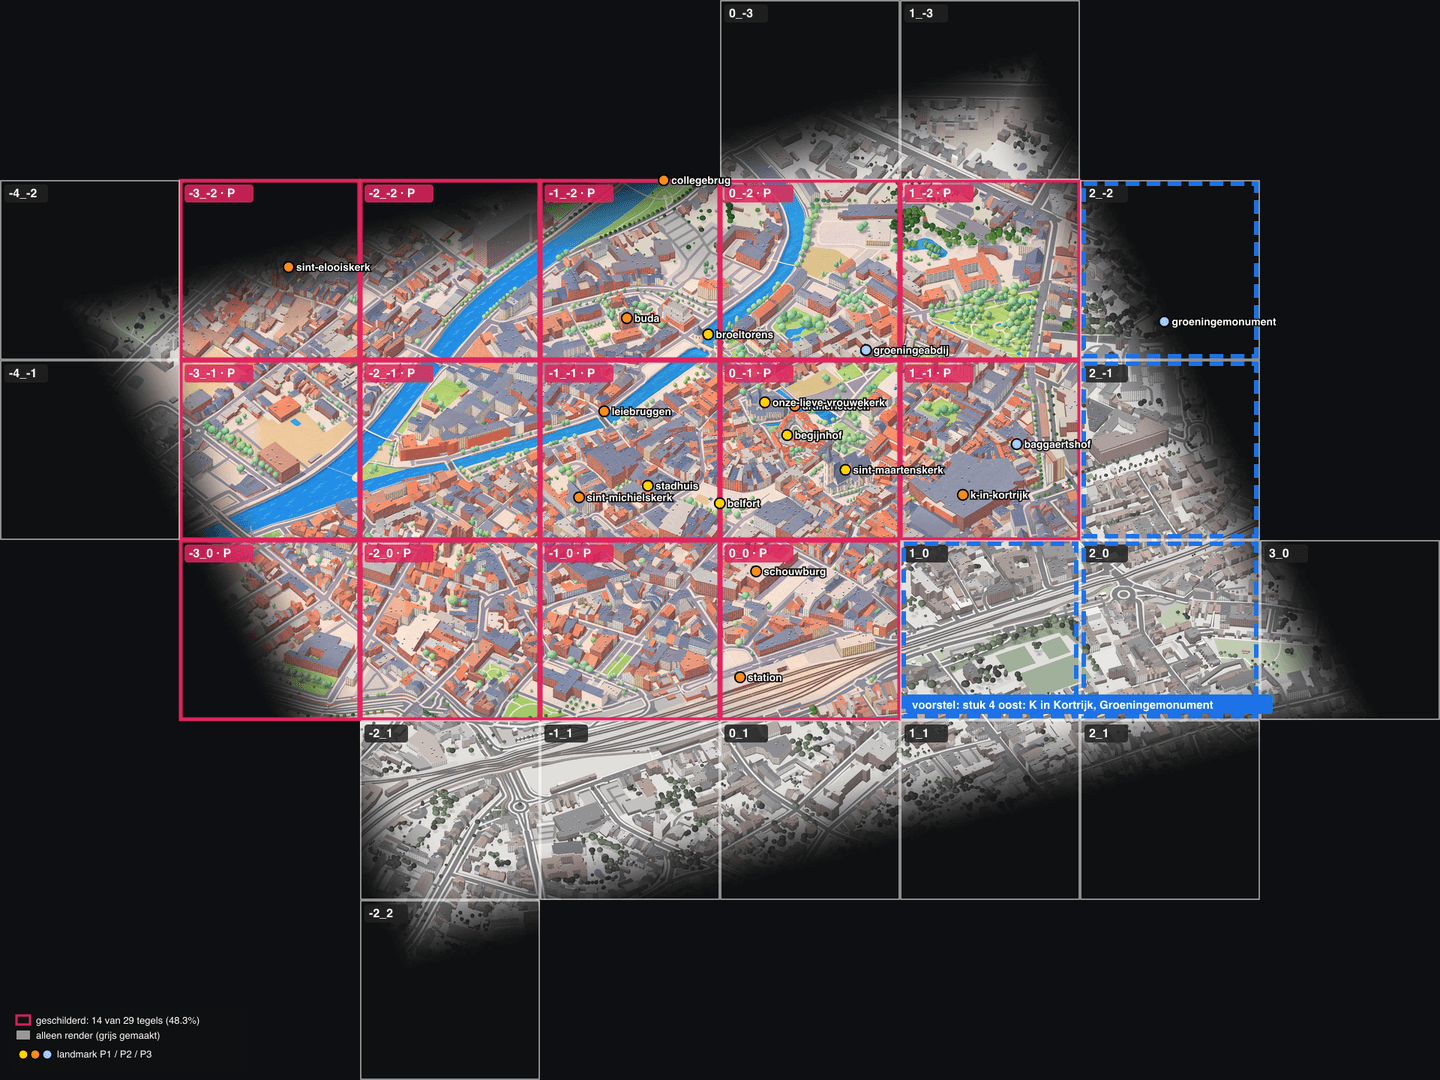
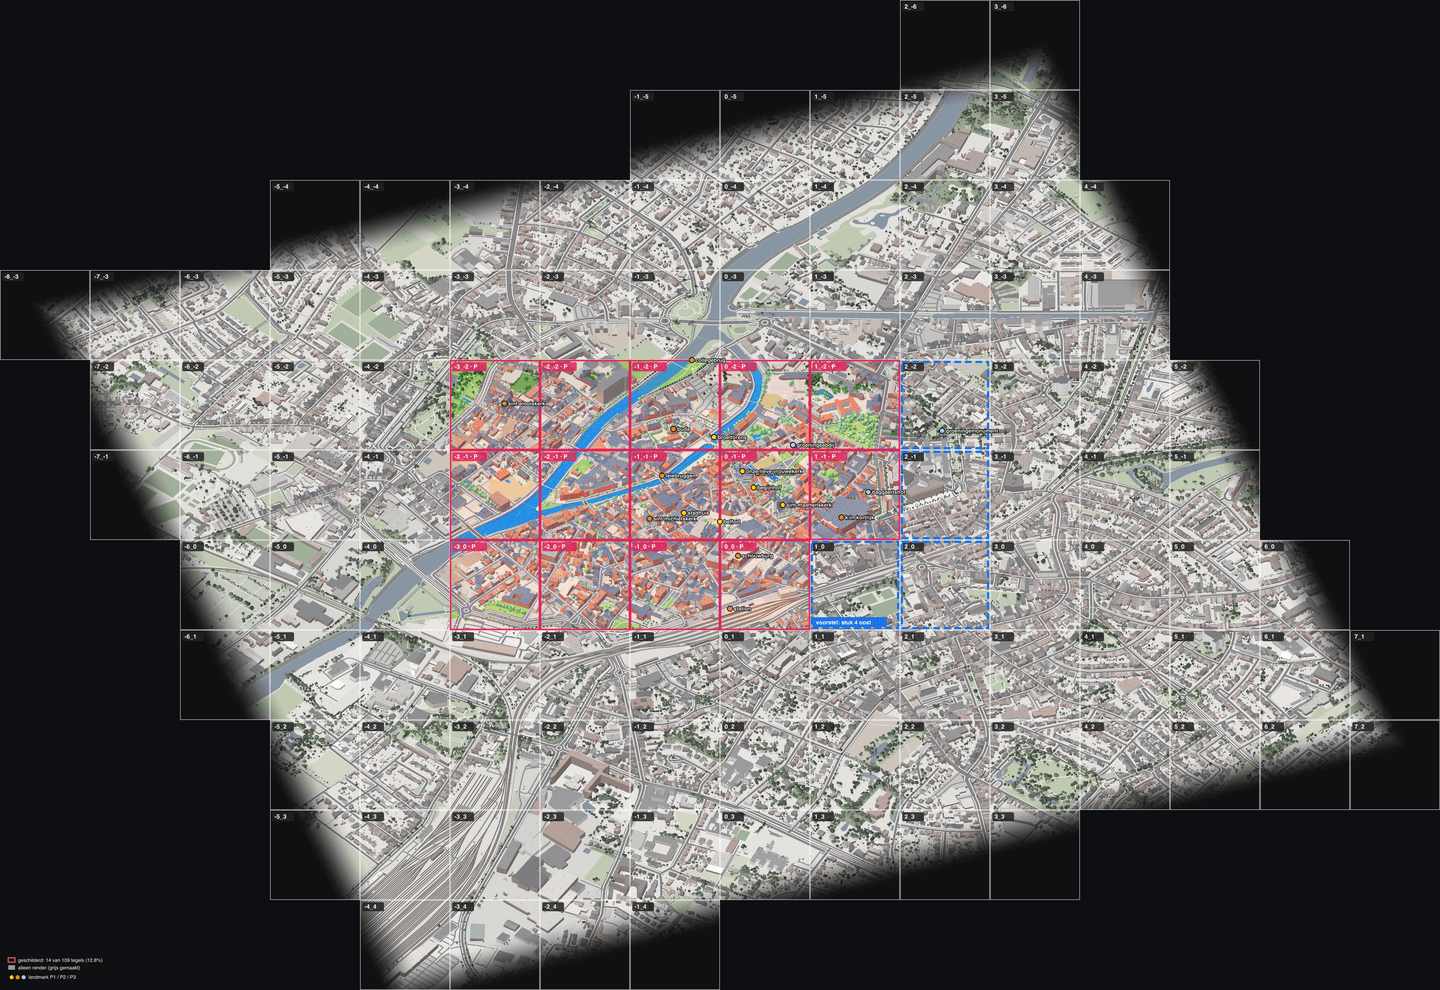
Grow the map from 800 m to 1600 m around the Belfort (109 tiles)
Tom chose option C for the map edge: a bigger part of the city. The
kortrijk-binnenstad bbox now covers the whole ring, the station quarter,
Overleie, Kortrijk Weide and Sint-Jan. Tile coordinates are unchanged,
so the 14 painted tiles stay as they are.

- areas.ts and building_colours.py: the 1600 m bbox.
- export.ts: source stamps include a tag of the area outline, so tiles
  whose baked edge fade changed are rebuilt (they kept the old dark fade).
- Docs: paint status grid and numbers (14 of 109 painted, 12.8%), the
  area-growth procedure in CLAUDE.md, README/AGENTS counts.

diff --git a/pipeline/src/export.ts b/pipeline/src/export.ts
@@ -52,6 +52,8 @@ const EDGE0 = 220, EDGE1 = EDGE0 + 520;
 let outlines: Array<Array<[number, number]>> = [];
 /** web/src/pages/index.astro #map background (#0e0f12): the edge fades into it */
 const BG = [14, 15, 18];
+/** Short tag of the outline in every source stamp: when an area grows, tiles that used to fade are rebuilt. */
+const outlineTag = () => "@" + createHash("sha1").update(JSON.stringify(outlines.map((o) => o.map(([x, y]) => [Math.round(x), Math.round(y)])))).digest("hex").slice(0, 8);
 const edgeDistance = (x: number, y: number) => Math.max(0, ...outlines.map((o) => insideDistance([x, y], o)));
 
 /** Native web tile at global art px (x0, y0): fade alpha near the map edge (null = fully inside). */
@@ -195,7 +197,7 @@ async function exportLayer(layer: string, sources: Map<Key, string>) {
   for (const [k, file] of sources) {
     const [tx, ty] = parse(k);
     const painted = layer === "map" && /\/paint(-hd)?\//.test(file);
-    const m = statSync(file).mtimeMs, stamp = `${file}@${m}@edge${EDGE0}-${EDGE1}d${painted ? `@${DECK_STYLE}` : ""}@${FORMAT}${QUALITY}@hd${HD}`;
+    const m = statSync(file).mtimeMs, stamp = `${file}@${m}@edge${EDGE0}-${EDGE1}${outlineTag()}d${painted ? `@${DECK_STYLE}` : ""}@${FORMAT}${QUALITY}@hd${HD}`;
     const todo: Array<[number, number]> = [];
     for (let j = 0; j < SPLIT; j++)
       for (let i = 0; i < SPLIT; i++) {

diff --git a/pipeline/src/areas.ts b/pipeline/src/areas.ts
@@ -14,14 +14,15 @@ export interface Area {
 
 export const AREAS: Record<string, Area> = {
   /**
-   * ~800 m around the Belfort: Grote Markt, Sint-Maartenskerk, Onze-Lieve-Vrouwekerk,
-   * Begijnhof, Broeltorens and the Leie quays.
-   * Belfort 50.8275738, 3.2656171; 800 m ≈ 0.007186° lat, 0.011377° lon.
+   * ~1600 m around the Belfort (3.2 × 3.2 km, 109 tiles): the whole ring with the binnenstad,
+   * station quarter, Overleie, Kortrijk Weide and Sint-Jan. Until 2026-11-11 it was 800 m
+   * (29 tiles: 50.820387, 3.254240, 50.834760, 3.276994); tile coordinates did not change.
+   * Belfort 50.8275738, 3.2656171; 1600 m ≈ 0.014373° lat, 0.022754° lon.
    */
   "kortrijk-binnenstad": {
     title: "Kortrijk binnenstad",
     region: "kortrijk",
-    bbox: [50.820387, 3.254240, 50.834760, 3.276994],
+    bbox: [50.813201, 3.242863, 50.841947, 3.288372],
   },
   /** Whole municipality (OSM relation 961284). Defined so the region scales; not fetched by default. */
   kortrijk: {

diff --git a/pipeline/tools/building_colours.py b/pipeline/tools/building_colours.py
@@ -42,7 +42,7 @@ import pyproj
 Image.MAX_IMAGE_PIXELS = None
 ROOT = os.path.abspath(os.path.join(os.path.dirname(__file__), "..", ".."))
 UA = {"User-Agent": "simkortrijk/0.1 (open-data isometric map of Kortrijk)"}
-BBOX = {"kortrijk-binnenstad": (50.820387, 3.254240, 50.834760, 3.276994)}
+BBOX = {"kortrijk-binnenstad": (50.813201, 3.242863, 50.841947, 3.288372)}  # keep in step with pipeline/src/areas.ts
 ORTHO_LAYER, RES = "OMWRGB25VL", 0.25
 
 ap = argparse.ArgumentParser()

diff --git a/docs/PAINT_STATUS.md b/docs/PAINT_STATUS.md
@@ -9,7 +9,7 @@ What is painted on the live map and what is not. **Update this file after every 
 
 Regenerate `docs/paint-status.png` when the grid changes.
 
-Last updated: **2026-11-11**, after the HD publish of about 17:32 CET (1 277 files to R2 bucket `simkortrijk`, region `kortrijk`). The 16:23 publish before it was the same map at z8.
+Last updated: **2026-11-11**, after the 1600 m map publish of about 21:10 CET (4 697 files to R2 bucket `simkortrijk`, region `kortrijk`, every tile re-exported because the edge fade moved; Worker redeployed). Before that: piece 3 at 19:05, the HD publish at 17:32.
 
 ![Paint status: painted tiles outlined in red, render-only tiles greyed, landmarks by priority, the proposed next piece dashed blue](paint-status.png)
 
@@ -30,10 +30,10 @@ The map is painted in **pieces** (`stukken`): a few neighbouring tiles, or one l
 | 1 | Grote Markt | repaint the Belfort and stadhuis windows in `-1_-1` / `0_-1`; paint `-1_0` `0_0` | Belfort, historisch stadhuis (P1, render fix first); Stadsschouwburg, station (P2) | **done**, live (published 18:27 CET, 214 files): render fixed (`belfort/massing.json`, `stadhuis/massing.json`), windows `-1_-1` and `0_-1` repainted, `-1_0` and `0_0` painted, tiles `-1_-1` `0_-1` `-1_0` `0_0` reassembled | 4 / ~$0.36 | 2026-11-11 |
 | 2 | OLV-kerk, Begijnhof, east side | repaint `0_-1` after the OLV and Begijnhof fixes; paint `1_-2` `1_-1` | OLV-kerk + Gravenkapel, Begijnhof (P1, render fix first); K in Kortrijk + Sint-Janstoren (P2); Baggaertshof (P3) | **done**, live (published 18:46 CET, 236 files): OLV-kerk (`massing.json`) and Begijnhof (`colours.json`) fixed; windows `0_-2` `0_-1` repainted, `1_-2` `1_-1` painted, tiles `0_-2` `0_-1` `0_0` `1_-2` `1_-1` reassembled. K in Kortrijk, Sint-Janstoren and Baggaertshof painted from the uncorrected render | 6 / ~$0.54 (2 repaints after the OLV came out as a palace, see below) | 2026-11-11 |
 | 3 | West: Sint-Elooiskerk, Leie, Noordbrug | paint `-3_-2` `-3_-1` `-3_0` `-2_0` (scope widened: the Noordbrug pylon stands in `-3_0`, and `-2_0` closes the gap); repaint `-2_-2` `-2_-1` (their left edge was a feather) | Sint-Elooiskerk (`massing.json`), Noordbrug (render edit `leiebruggen/edit_noordbrug.ts`: pylon and stays drawn before painting, restored after) | **done**, live (published 19:05 CET, 455 files) | 9 / ~$0.81 | 2026-11-11 |
-| – | Map edge: no black | cream paper instead of the dark page background (see "Next up") | – | **next**, Tom asked for it before piece 4 | 0 paint calls | |
-| 4 | East: K in Kortrijk, Baggaertshof, Groeningemonument | fix K in Kortrijk + Sint-Janstoren and Baggaertshof, repaint `1_-1`; paint `1_0` `2_-2` `2_-1` `2_0` (and repaint the edge windows that feather into them) | K in Kortrijk + Sint-Janstoren (P2), Baggaertshof (P3), Groeningemonument (P3) | **agreed as the next piece**, after the map edge; briefing in "Next up" | ~9 / ~$0.80 (estimate) | |
+| – | Bigger map (Tom chose option C of "map edge") | area `kortrijk-binnenstad` grown from 800 m to 1600 m around the Belfort: 29 → **109** tiles (80 new render tiles, 14 old edge tiles re-rendered with the data that was missing outside the old bbox). Fetch, colours, ground, scene, render, full re-export (the edge fade moved), publish, redeploy | – | **done**, live | 0 paint calls | 2026-11-11 |
+| 4 | East: K in Kortrijk, Baggaertshof, Groeningemonument | fix K in Kortrijk + Sint-Janstoren and Baggaertshof, repaint `1_-1`; paint `1_0` `2_-2` `2_-1` `2_0` (and repaint the edge windows that feather into them) | K in Kortrijk + Sint-Janstoren (P2), Baggaertshof (P3), Groeningemonument (P3) | **agreed as the next piece**; briefing in "Next up" | ~9 / ~$0.80 (estimate) | |
 
-Progress: **14 of 29** binnenstad tiles painted (48.3%), all live. Total so far: 30 paint calls, about $2.70.
+Progress: **14 of 109** tiles painted (12.8%), all live; of the old 800 m binnenstad (29 tiles) 14 are painted (48.3%). Total so far: 30 paint calls, about $2.70.
 
 Open follow-ups (small pieces of their own, each a render fix plus one repaint): K in Kortrijk + Sint-Janstoren (dark stone block with glass barrel roof, white tower) and Baggaertshof (a `colours.json` like the Begijnhof) in window `1_-1`.
 
@@ -45,7 +45,7 @@ Neighbour strips carry old paint along: in piece 2 the old `0_-1` window (OLV-ke
 
 ## Next up (agreed with Tom, 2026-11-11)
 
-1. **Map edge: remove the black areas.** Outside the binnenstad there are no tiles, so the page background (`#0e0f12`) shows, and every edge tile fades into that dark colour over 220-740 art px (`EDGE0`/`EDGE1` and `BG` in `pipeline/src/export.ts`). That fade also darkens map content near the edge (the Sint-Elooiskerk spire). Options:
+1. **Map edge: remove the black areas.** *Tom chose C (2026-11-11): done, the map is now 1600 m around the Belfort. The edge still fades to the dark page background, further out; A (cream paper) can still be added on top.* Outside the binnenstad there are no tiles, so the page background (`#0e0f12`) shows, and every edge tile fades into that dark colour over 220-740 art px (`EDGE0`/`EDGE1` and `BG` in `pipeline/src/export.ts`). That fade also darkens map content near the edge (the Sint-Elooiskerk spire). Options:
    - **A (recommended): cream paper.** Fade and fill to the style-A paper colour instead of black: `BG` in `export.ts` and `og.ts`, the page, map and preview backgrounds and `theme-color` in `web/src/components/MapPage.astro` (and `404.astro`). Then re-export everything (edge tiles and every lower zoom level are composited on `BG`), publish all tiles, rebuild and redeploy. No paint calls.
    - **B: a narrower fade** (smaller `EDGE0`/`EDGE1`) so less of the map is dimmed. Alone it shows the tile staircase along the outline; combine it with A or C.
    - **C: a bigger map**: a ring of extra render tiles around the binnenstad (new area: fetch, ground, scene, render, export). The edge moves outward but still exists; the new tiles are unpainted render.
@@ -60,12 +60,12 @@ Neighbour strips carry old paint along: in piece 2 the old `0_-1` window (OLV-ke
 
 | | |
 |---|---|
-| Area on the live map | `kortrijk-binnenstad` only (bbox 50.820387,3.254240 – 50.834760,3.276994, about 800 m) |
-| Render tiles (1024 px, 0.25 m/px, 256 m) | **29**, `tx` -4..3 × `ty` -3..2 (irregular, see grid) |
+| Area on the live map | `kortrijk-binnenstad`, since 2026-11-11 evening **1600 m** around the Belfort (bbox 50.813201,3.242863 – 50.841947,3.288372, 3.2 × 3.2 km: binnenstad, the whole ring, station quarter, Overleie, Kortrijk Weide, Sint-Jan). Before: 800 m (50.820387,3.254240 – 50.834760,3.276994), 29 tiles. The 800 m raw data is kept in `data/raw/kortrijk-binnenstad.800m/`, the replaced edge renders in `data/derived/kortrijk-binnenstad/pre-expand/`. |
+| Render tiles (1024 px, 0.25 m/px, 256 m) | **109**, `tx` -8..7 × `ty` -6..4 (irregular, see grid); tile coordinates did not change |
 | Web resolution | **HD**: native zoom 9 at 0.125 m/px from `render-hd/` (2048 px per tile), AVIF q65. The 6 painted tiles are 1024 px paint upscaled: they are no sharper than before until they are repainted at 2K into `paint-hd/`. |
 | Painted tiles | **14**: `tx` -2..0 × `ty` -2..-1 (Broeltorens / Sint-Maarten block), `-1_0` `0_0` (piece 1), `1_-2` `1_-1` (piece 2), `-3_-2` `-3_-1` `-3_0` `-2_0` (piece 3) |
-| Render-only tiles | **15**, showing the coloured 3D render (per-building colours, `--soften 0.5`), not painted |
-| Coverage | **48.3%** of the binnenstad map (14 of 29 equal tiles) |
+| Render-only tiles | **95**, showing the coloured 3D render (per-building colours, `--soften 0.5`), not painted |
+| Coverage | **12.8%** of the map (14 of 109 equal tiles); 48.3% of the old 800 m binnenstad (14 of 29) |
 | Style | Style A + real colours (`.claude/skills/map-style`) |
 | Painter | OpenAI `gpt-image-2.6-flare`, quality high, input fidelity high, `PAINT_ATTEMPTS=1` |
 | Painted | 2026-11-11, 16:01–16:06 CET |
@@ -74,17 +74,24 @@ Neighbour strips carry old paint along: in piece 2 the old `0_-1` window (OLV-ke
 
 ## Tile grid (`tx` across, `ty` down)
 
-`P` = painted, `r` = coloured render only, `.` = no tile (outside the binnenstad bbox).
+`P` = painted, `r` = coloured render only (the old 800 m area), `n` = coloured render only, new with the 1600 m area, `.` = no tile.
 
 ```
-ty \ tx   -4  -3  -2  -1   0   1   2   3
-  -3       .   .   .   .   r   r   .   .
-  -2       r   P   P   P   P   P   r   .
-  -1       r   P   P   P   P   P   r   .
-   0       .   P   P   P   P   r   r   r
-   1       .   .   r   r   r   r   r   .
-   2       .   .   r   .   .   .   .   .
+ty \ tx   -8  -7  -6  -5  -4  -3  -2  -1   0   1   2   3   4   5   6   7
+  -6       .   .   .   .   .   .   .   .   .   .   n   n   .   .   .   .
+  -5       .   .   .   .   .   .   .   n   n   n   n   n   .   .   .   .
+  -4       .   .   .   n   n   n   n   n   n   n   n   n   n   .   .   .
+  -3       n   n   n   n   n   n   n   n   r   r   n   n   n   .   .   .
+  -2       .   n   n   n   r   P   P   P   P   P   r   n   n   n   .   .
+  -1       .   n   n   n   r   P   P   P   P   P   r   n   n   n   .   .
+   0       .   .   n   n   n   P   P   P   P   r   r   r   n   n   n   .
+   1       .   .   n   n   n   n   r   r   r   r   r   n   n   n   n   n
+   2       .   .   .   n   n   n   r   n   n   n   n   n   n   n   n   n
+   3       .   .   .   n   n   n   n   n   n   n   n   n   .   .   .   .
+   4       .   .   .   .   n   n   n   n   .   .   .   .   .   .   .   .
 ```
+
+The painted edge tiles of the old map (`-3_-2` `-2_-2` `-3_0`) were checked against their new renders: only a few trees and kerbs outside the old bbox differ (0.4–2.8% of pixels), so their paint stays. Edge windows that GPT filled with an invented city (`-4_0`, `-2_-3`, `-1_-3`) now lie over real render tiles: repaint them from the new render before they are used as neighbour strips.
 
 ## Paint windows of the block
 
@@ -100,7 +107,7 @@ Assembled with `python3 pipeline/tools/assemble_block.py --skip=-2_-3,-1_-3`. Be
 
 ## Not painted yet
 
-- **The rest of the binnenstad:** 15 tiles. In order of interest:
+- **The rest of the map:** 95 tiles (15 in the old binnenstad, 80 new). In order of interest:
   - the Leie and Groeninge side to the east, `1_-2`, `1_-1`, `2_-2`, `2_-1`: K in Kortrijk, Baggaertshof, Groeningemonument;
   - Sint-Elooiskerk and Noordbrug to the west, `-3_-2`, `-3_-1`;
   - the station and Schouwburg to the south, row `ty` 0;
@@ -126,7 +133,7 @@ Each landmark has notes, photos and a priority in `pipeline/landmarks/<slug>/` (
 | P2 | Buda (toren, fabriek, brug) | pending | `-1_-2` / `-2_-2` | yes, from the uncorrected render |
 | P2 | Collegebrug | pending | `-1_-2` | yes, from the uncorrected render |
 | P2 | Leiebruggen | Noordbrug **done** (render edit, piece 3); others pending | `-1_-1`, `-2_-1`, `-3_-1` | yes (piece 3) |
-| P2 | Sint-Elooiskerk | **done** (`massing.json`, piece 3) | `-3_-2` | **yes** (piece 3); its spire sits in the map-edge fade |
+| P2 | Sint-Elooiskerk | **done** (`massing.json`, piece 3) | `-3_-2` | **yes** (piece 3); its spire was in the old map-edge fade (no longer: the map is bigger) |
 | P2 | K in Kortrijk + Sint-Janstoren | pending | `1_-1` | yes, from the uncorrected render (piece 2) |
 | P2 | Station | pending | row `ty` 0 | yes, from the uncorrected render (piece 1) |
 | P2 | Stadsschouwburg | pending | row `ty` 0 | yes, from the uncorrected render (piece 1) |

diff --git a/CLAUDE.md b/CLAUDE.md
@@ -9,7 +9,7 @@ Adapted from [Isometric World](https://github.com/krasun/isometricworld) (Dmytro
 | Path | Role |
 |---|---|
 | `pipeline/src/places.ts` | Region `kortrijk` (origin = Belfort, heading 20°) and city `kortrijk` |
-| `pipeline/src/areas.ts` | `kortrijk-binnenstad` (~800 m) and `kortrijk` (whole municipality) |
+| `pipeline/src/areas.ts` | `kortrijk-binnenstad` (~1600 m since 2026-11-11, was 800 m) and `kortrijk` (whole municipality) |
 | `pipeline/src/fetch.ts` | GRB, 3D GRB, DHMV, OSM. Calls `trees.ts` |
 | `pipeline/src/flanders.ts` | Lambert 72 and DHMV rasters |
 | `pipeline/src/ground.ts` | Terrain grid + drawable ground |
@@ -104,7 +104,7 @@ Only touch R2 bucket `simkortrijk` and Worker `simkortrijk`. Never change any ot
 
 - **Paint one piece at a time, with Tom in the loop.** Before each piece: show `docs/paint-status.png`, propose tiles, landmarks, render fixes, cost and useful references, and wait for Tom's go and any reference material he adds. After each piece: update the piece table and summary in `docs/PAINT_STATUS.md` and regenerate `docs/paint-status.png`. Full rule in `docs/PAINT_STATUS.md` ("Working rule").
 
-**`docs/PAINT_STATUS.md` is the single source of truth**: what is painted and what is not, the tile and window grid, cost, excluded windows, landmark status, and restore points. Update it (and `docs/paint-status.png`) after every paint run and every publish. In short, as of 2026-11-11: 14 of 29 binnenstad tiles are painted (48.3%, all live), 15 are coloured render, and the municipality is not started.
+**`docs/PAINT_STATUS.md` is the single source of truth**: what is painted and what is not, the tile and window grid, cost, excluded windows, landmark status, and restore points. Update it (and `docs/paint-status.png`) after every paint run and every publish. In short, as of 2026-11-11: the map is 109 tiles (1600 m around the Belfort); 14 are painted (12.8%, all live), 95 are coloured render, and the rest of the municipality is not started.
 
 Live since 2026-11-11, published to R2 in HD (native zoom 9, 0.125 m/px from `render-hd/`, AVIF q65; viewer reads `scale` from world.json): 29 tiles of `kortrijk-binnenstad`, rendered with per-building colours (`--soften 0.5`) and the Sint-Maartenskerk `massing.json`. Six are painted in **Style A + real colours** with **OpenAI `gpt-image-2.6-flare`** (quality high, input fidelity high, `PAINT_ATTEMPTS=1`): `tx` -2..0, `ty` -2..-1, the Broeltorens block. Windows `-2_-3` and `-1_-3` (mostly empty map edge) are skipped and stay render (`assemble_block.py --skip=-2_-3,-1_-3`). Cost was 11 calls, about $1. Windows and paint tiles live in `data/derived` (gitignored), and the published copies are on R2.
 
@@ -168,9 +168,10 @@ Do not run `npm run paint` until `GEMINI_API_KEY` is set on purpose. `npm test` 
 - HD: `HD = 2` in `camera.ts`. `npm run render` writes `render/` (1024, for paint and tools) and `render-hd/` (2048) from one render; export builds z9 from the HD file and upscales a 1024 paint. Art px stay the coordinate system everywhere; only the pyramid and OpenSeadragon's image px are ×HD. Deploy a viewer change before publishing a `world.json` it does not understand.
 - Cloudflare auth on Tom's Mac: the `CLOUDFLARE_API_TOKEN` in `.env` gets 403 on Workers and R2 for account `fa71ab6722bdece3cb45e84ff630e3c0`. Use the wrangler OAuth login instead: `npx wrangler deploy --env-file <empty file>`, and for publish `CLOUDFLARE_API_TOKEN=$(npx wrangler auth token) CLOUDFLARE_ACCOUNT_ID=fa71ab6722bdece3cb45e84ff630e3c0` (run `auth token` outside the repo so `.env` is not loaded). Build with `TILES_ORIGIN=https://pub-74f69231228247acb76f1009b1fa86f5.r2.dev` so the site loads tiles from R2 like production.
 
+- Growing an area (done 2026-11-11, 800 m → 1600 m): change the bbox in `pipeline/src/areas.ts` **and** in `BBOX` of `pipeline/tools/building_colours.py`; move `data/raw/<area>` aside (fetch caches every file, so a bigger bbox is not refetched otherwise) but copy `3dgrb.json` back in to skip known height lookups; then fetch, building colours, ground, scene. Old tiles that crossed the old outline lack the buildings and trees outside the old bbox: move their `render/`, `render-hd/` and `height/` files aside and render (only missing tiles are rendered), then re-run render edits such as `edit_noordbrug.ts` for those tiles. Export stamps include a tag of the outline, so a moved edge re-exports every tile (the edge fade is baked in). Python's Overpass calls may fail with LibreSSL; fetch `osm_building_tags.json` with curl (`maps.mail.ru/osm/tools/overpass` answered when overpass-api.de was full).
 - WFS 2.0 bbox for EPSG:4326 on this server is west,south,east,north. Geometries are lon, lat.
 - DHMV GeoTIFFs are north-up (origin at the north edge, negative y scale). `flanders.ts` normalises row 0 = north.
-- 3D GRB misses buildings newer than about 2015. Those keep a DHMV height. The binnenstad is roughly 6,500 footprints after dropping ramps and bridge decks.
+- 3D GRB misses buildings newer than about 2015. Those keep a DHMV height. The 800 m binnenstad was roughly 6,500 footprints after dropping ramps and bridge decks; the 1600 m area is about 21,600.
 - A failed height lookup is stored as `null` in `3dgrb.json` and that building uses DHMV. Keys already in the checkpoint are not requested again.
 - Render uses software WebGL if there is no GPU (`--enable-unsafe-swiftshader`). `-j 2` is a safe default.
 - `npm run dev` serves `/regions/...` from `data/web` first and proxies everything else to R2, so a fresh clone shows the published tiles with no export. With `TILES_ORIGIN=` (empty) it 404s `/regions/...` that are not in `data/web`. Export first. A production build with an empty origin reads that same cache; run `npm run build` after export so `web/dist/regions` exists before `npx wrangler deploy`.

diff --git a/AGENTS.md b/AGENTS.md
@@ -17,7 +17,7 @@ The code is adapted from [Isometric World](https://github.com/krasun/isometricwo
 
 - **Paint one piece at a time, with Tom in the loop.** Before each piece: show `docs/paint-status.png`, propose tiles, landmarks, render fixes, cost and useful references, and wait for Tom's go and any reference material he adds. After each piece: update the piece table and summary in `docs/PAINT_STATUS.md` and regenerate `docs/paint-status.png`. Full rule in `docs/PAINT_STATUS.md` ("Working rule").
 
-Single source of truth: [docs/PAINT_STATUS.md](docs/PAINT_STATUS.md). Update it after every paint run and every publish. As of 2026-11-11: 14 of 29 tiles painted (48.3%, all live), and windows `-2_-3` / `-1_-3` are excluded.
+Single source of truth: [docs/PAINT_STATUS.md](docs/PAINT_STATUS.md). Update it after every paint run and every publish. As of 2026-11-11: 14 of 109 tiles painted (12.8%, all live; the map grew from 800 m to 1600 m), and windows `-2_-3` / `-1_-3` are excluded.
 
 The live map (published 2026-11-11) is 29 tiles of `kortrijk-binnenstad`, rendered with per-building colours and the Sint-Maartenskerk massing. Six tiles are painted in **Style A + real colours** with OpenAI `gpt-image-2.6-flare`: `tx` -2..0 × `ty` -2..-1, the Broeltorens block. Windows `-2_-3` and `-1_-3` (mostly empty map edge) are skipped and stay render. The rest is unpainted render. Paint files are in `data/derived` (not in git) and on R2. Restore points (live, previous coral GPT, pre-colour snapshot, Gemini) are listed in `CLAUDE.md` under "Where the binnenstad paint stands".
 
@@ -52,4 +52,4 @@ npm run binnenstad
 npm run dev
 ```
 
-Areas live in `pipeline/src/areas.ts`. `kortrijk-binnenstad` is the 800 m patch. `kortrijk` is the municipality and uses the same camera.
+Areas live in `pipeline/src/areas.ts`. `kortrijk-binnenstad` is the 1600 m patch (800 m until 2026-11-11; the bbox is also in `pipeline/tools/building_colours.py`). `kortrijk` is the municipality and uses the same camera.

diff --git a/README.md b/README.md
@@ -8,7 +8,7 @@ Live reference for the look: [isometric Tel Aviv](https://isometricworld.dmytrok
 
 ## What you get
 
-The region is one flat map centred on the Belfort. This run builds the **binnenstad**: about 800 m around the Belfort (Grote Markt, Sint-Maartenskerk, Onze-Lieve-Vrouwekerk, Begijnhof, Broeltorens, Leie quays). The same camera and commands cover the whole municipality (`kortrijk` in `pipeline/src/areas.ts`, on the order of 54,000 buildings). Do not change `origin` or `headingDeg` in `pipeline/src/places.ts` after tiles exist.
+The region is one flat map centred on the Belfort. This run builds the **binnenstad**: about 1600 m around the Belfort (the binnenstad with Grote Markt, Sint-Maartenskerk, Onze-Lieve-Vrouwekerk, Begijnhof, Broeltorens and the Leie quays, plus the whole ring, the station quarter, Overleie, Kortrijk Weide and Sint-Jan). The same camera and commands cover the whole municipality (`kortrijk` in `pipeline/src/areas.ts`, on the order of 54,000 buildings). Do not change `origin` or `headingDeg` in `pipeline/src/places.ts` after tiles exist.
 
 ## Quick start
 
